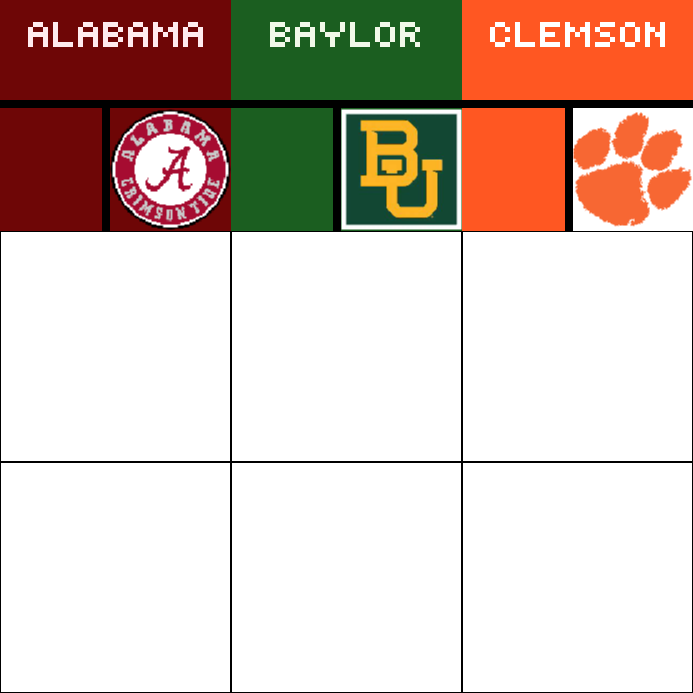
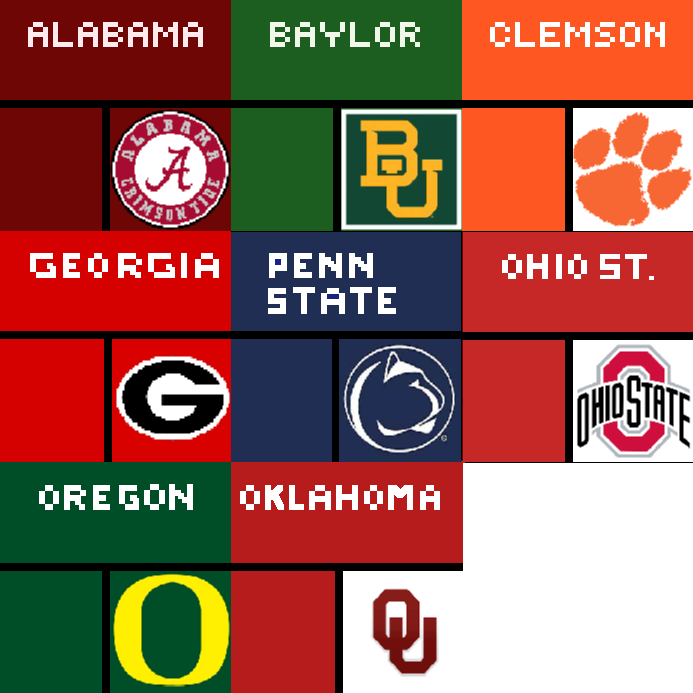
[Ethan] Team Jerseys Basic

diff --git a/src/graphics/Texture.java b/src/graphics/Texture.java
@@ -1,4 +1,5 @@
 package graphics;
+import entity.GameManager;
 import org.lwjgl.BufferUtils;
 import static org.lwjgl.opengl.GL13.*;
 import javax.imageio.ImageIO;
@@ -25,6 +26,99 @@ public class Texture {
             for (int i = 0; i < width; i++) {
                 for (int j = 0; j < height; j++) {
                     int pixel = pixels_raw[i*width+j];
+
+                    pixels.put((byte) ((pixel >> 16) & 0xFF)); // Red
+                    pixels.put((byte) ((pixel >> 8) & 0xFF)); // Green
+                    pixels.put((byte) (pixel & 0xFF)); // Blue
+                    pixels.put((byte) ((pixel >> 24) & 0xFF)); // Alpha
+                }
+            }
+
+            pixels.flip();
+
+            id = glGenTextures();
+
+            glBindTexture(GL_TEXTURE_2D,id);
+
+            glTexParameterf(GL_TEXTURE_2D, GL_TEXTURE_MIN_FILTER, GL_NEAREST); // Substitute GL_NEAREST WITH GL_LINEAR POSSIBlE
+            glTexParameterf(GL_TEXTURE_2D,GL_TEXTURE_MAG_FILTER,GL_NEAREST);
+
+            glTexImage2D(GL_TEXTURE_2D,0,GL_RGBA,width,height,0,GL_RGBA,GL_UNSIGNED_BYTE,pixels);
+
+        } catch(IOException e) {
+            e.printStackTrace();
+        }
+    }
+
+    public Texture(String filename, boolean offense) { // Constructor for player animations
+        BufferedImage bi;
+        try {
+            bi = ImageIO.read(new File("res/" +filename));
+            width = bi.getWidth();
+            height = bi.getHeight();
+
+            int[] pixels_raw = new int[width*height*4];
+            pixels_raw = bi.getRGB(0,0,width,height,null,0,width);
+
+            ByteBuffer pixels = BufferUtils.createByteBuffer(width*height*4);
+            for (int i = 0; i < width; i++) {
+                for (int j = 0; j < height; j++) {
+                    int pixel = pixels_raw[i*width+j];
+
+                    // Set Proper Jersey, Pant, Helmet Color
+                    int pantsOriginal = 0xFFffffff;
+                    int defenseJersey = -769226;
+                    int offenseJersey = 0xFF3f51b5;
+                    if (offense) {
+                        if ((GameManager.userHome && GameManager.userOffense) || (! GameManager.userHome && ! GameManager.userOffense)) {
+                            switch (GameManager.homeID) {
+                                case 0 : if (pixel == offenseJersey) {pixel = 0xFF9E1B32; } else if (pixel == pantsOriginal) { pixel = 0xFFffffff; } break;
+                                case 1 : if (pixel == offenseJersey) {pixel = 0xFF1b5e1f; } else if (pixel == pantsOriginal) { pixel = 0xFFffffff; } break;
+                                case 2 : if (pixel == offenseJersey) {pixel = 0xFFF56600; } else if (pixel == pantsOriginal) { pixel = 0xFFffffff; } break;
+                                case 3 : if (pixel == offenseJersey) {pixel = 0xFFBA0C2F; } else if (pixel == pantsOriginal) { pixel = 0xFFffffff; } break;
+                                case 4 : if (pixel == offenseJersey) {pixel = 0xFF3f51b5; } else if (pixel == pantsOriginal) { pixel = 0xFFffffff; } break;
+                                case 5 : if (pixel == offenseJersey) {pixel = 0xFFBB0000; } else if (pixel == pantsOriginal) { pixel = 0xFFffffff; } break;
+                                case 6 : if (pixel == offenseJersey) {pixel = 0xFF154733; } else if (pixel == pantsOriginal) { pixel = 0xFF154733; } break;
+                                case 7 : if (pixel == offenseJersey) {pixel = 0xFF841617; } else if (pixel == pantsOriginal) { pixel = 0xFFFDF9D8; } break;
+                            }
+                        } else {
+                            switch (GameManager.awayID) {
+                                case 0 : if (pixel == offenseJersey) { pixel = 0xFF828A8F; } else if (pixel == pantsOriginal) { pixel = 0xFFffebee; } break;
+                                case 1 :  if (pixel == offenseJersey) { pixel = 0xFFffffff; } else if (pixel == pantsOriginal) { pixel = 0xFF1b5e1f; } break;
+                                case 2 : if (pixel == offenseJersey) {pixel = 0xFFffffff; } else if (pixel == pantsOriginal) { pixel = 0xFFF56600; } break;
+                                case 3 : if (pixel == offenseJersey) {pixel = 0xFFffffff; } else if (pixel == pantsOriginal) { pixel = 0xFFBA0C2F; } break;
+                                case 4 : if (pixel == offenseJersey) {pixel = 0xFF3f51b5; } else if (pixel == pantsOriginal) { pixel = 0xFFffffff; } break;
+                                case 5 : if (pixel == offenseJersey) {pixel = 0xFF666666; } else if (pixel == pantsOriginal) { pixel = 0xFF666666; } break;
+                                case 6 : if (pixel == offenseJersey) {pixel = 0xFF1b5e1f; } else if (pixel == pantsOriginal) { pixel = 0xFF154733; } break;
+                                case 7 : if (pixel == offenseJersey) {pixel = 0xFFFDF9D8; } else if (pixel == pantsOriginal) { pixel = 0xFF841617; } break;
+                            }
+                        }
+                    } else {
+                        if ((GameManager.userHome && GameManager.userOffense) || (! GameManager.userHome && ! GameManager.userOffense)) {
+                            switch (GameManager.awayID) {
+                                case 0 : if (pixel == defenseJersey) { pixel = 0xFF828A8F; } else if (pixel == pantsOriginal) { pixel = 0xFFffebee; } break;
+                                case 1 : if (pixel == defenseJersey) { pixel = 0xFFffffff; } else if (pixel == pantsOriginal) { pixel = 0xFF1b5e1f; } break;
+                                case 2 : if (pixel == defenseJersey) {pixel = 0xFFffffff; } else if (pixel == pantsOriginal) { pixel = 0xFFF56600; } break;
+                                case 3 : if (pixel == defenseJersey) {pixel = 0xFFffffff; } else if (pixel == pantsOriginal) { pixel = 0xFFBA0C2F; } break;
+                                case 4 : if (pixel == defenseJersey) {pixel = 0xFF3f51b5; } else if (pixel == pantsOriginal) { pixel = 0xFFffffff; } break;
+                                case 5 : if (pixel == defenseJersey) {pixel = 0xFF666666; } else if (pixel == pantsOriginal) { pixel = 0xFF666666; } break;
+                                case 6 : if (pixel == defenseJersey) {pixel = 0xFF1b5e1f; } else if (pixel == pantsOriginal) { pixel = 0xFF154733; } break;
+                                case 7 : if (pixel == defenseJersey) {pixel = 0xFFFDF9D8; } else if (pixel == pantsOriginal) { pixel = 0xFF841617; } break;
+                            }
+                        } else {
+                            switch (GameManager.homeID) {
+                                case 0 : if (pixel == defenseJersey) {pixel = 0xFF9E1B32; } else if (pixel == pantsOriginal) { pixel = 0xFFffffff; } break;
+                                case 1 : if (pixel == defenseJersey) {pixel = 0xFF1b5e1f; } else if (pixel == pantsOriginal) { pixel = 0xFFffffff; } break;
+                                case 2 : if (pixel == defenseJersey) {pixel = 0xFFF56600; } else if (pixel == pantsOriginal) { pixel = 0xFFffffff; } break;
+                                case 3 : if (pixel == defenseJersey) {pixel = 0xFFBA0C2F; } else if (pixel == pantsOriginal) { pixel = 0xFFffffff; } break;
+                                case 4 : if (pixel == defenseJersey) {pixel = 0xFF3f51b5; } else if (pixel == pantsOriginal) { pixel = 0xFFffffff; } break;
+                                case 5 : if (pixel == defenseJersey) {pixel = 0xFFBB0000; } else if (pixel == pantsOriginal) { pixel = 0xFFffffff; } break;
+                                case 6 : if (pixel == defenseJersey) {pixel = 0xFF154733; } else if (pixel == pantsOriginal) { pixel = 0xFF154733; } break;
+                                case 7 : if (pixel == defenseJersey) {pixel = 0xFF841617; } else if (pixel == pantsOriginal) { pixel = 0xFFFDF9D8; } break;
+                            }
+                        }
+                    }
+
                     pixels.put((byte) ((pixel >> 16) & 0xFF)); // Red
                     pixels.put((byte) ((pixel >> 8) & 0xFF)); // Green
                     pixels.put((byte) (pixel & 0xFF)); // Blue

diff --git a/src/entity/OffensiveLineman.java b/src/entity/OffensiveLineman.java
@@ -28,14 +28,14 @@ public class OffensiveLineman extends Entity {
 
     public OffensiveLineman (Transform transform) {
         super(ANIM_SIZE,transform);
-        setAnimation(ANIM_IDLE, new Animation(1,1,"offensivelineidle"));
-        setAnimation(ANIM_MOVE, new Animation(3,12, "offensivelinemove"));
-        setAnimation(ANIM_BLOCK, new Animation(1,1, "offensivelineblock"));
-        setAnimation(ANIM_FALL, new Animation(1,1,"offensivefall"));
-        setAnimation(ANIM_BLOCK_MOVING, new Animation(4, 16, "offensivelineblockmoving"));
-        setAnimation(ANIM_PRESNAP, new Animation(1,1, "presnap/offensiveline"));
-        setAnimation(ANIM_CENTER, new Animation(2, 4, "presnap/center"));
-        setAnimation(ANIM_PLACE_HOLDER, new Animation(1,1, "placeholder"));
+        setAnimation(ANIM_IDLE, new Animation(1,1,"offensivelineidle",true));
+        setAnimation(ANIM_MOVE, new Animation(3,12, "offensivelinemove",true));
+        setAnimation(ANIM_BLOCK, new Animation(1,1, "offensivelineblock",true));
+        setAnimation(ANIM_FALL, new Animation(1,1,"offensivefall",true));
+        setAnimation(ANIM_BLOCK_MOVING, new Animation(4, 16, "offensivelineblockmoving",true));
+        setAnimation(ANIM_PRESNAP, new Animation(1,1, "presnap/offensiveline",true));
+        setAnimation(ANIM_CENTER, new Animation(2, 4, "presnap/center",true));
+        setAnimation(ANIM_PLACE_HOLDER, new Animation(1,1, "placeholder",true));
         speed = 3f;
         strength = 10f;
     }

diff --git a/src/entity/Quarterback.java b/src/entity/Quarterback.java
@@ -32,13 +32,13 @@ public class Quarterback extends Entity {
 
     public Quarterback(Transform transform) {
         super(ANIM_SIZE,transform);
-        setAnimation(ANIM_IDLE, new Animation(1,1,"qbidle"));
-        setAnimation(ANIM_WALK, new Animation(4,16,"qbrun"));
-        setAnimation(ANIM_THROW, new Animation(2,4,"qbthrow"));
-        setAnimation(ANIM_FALL, new Animation(1,1,"offensivefall"));
-        setAnimation(ANIM_HANDOFF, new Animation(1,1,"qbhandoff"));
-        setAnimation(ANIM_PRESNAP, new Animation(1,1, "presnap/quarterback"));
-        setAnimation(ANIM_RUN, new Animation(4, 16, "widereceiverrouterun"));
+        setAnimation(ANIM_IDLE, new Animation(1,1,"qbidle",true));
+        setAnimation(ANIM_WALK, new Animation(4,16,"qbrun",true));
+        setAnimation(ANIM_THROW, new Animation(2,4,"qbthrow",true));
+        setAnimation(ANIM_FALL, new Animation(1,1,"offensivefall",true));
+        setAnimation(ANIM_HANDOFF, new Animation(1,1,"qbhandoff",true));
+        setAnimation(ANIM_PRESNAP, new Animation(1,1, "presnap/quarterback",true));
+        setAnimation(ANIM_RUN, new Animation(4, 16, "widereceiverrouterun",true));
         speed = 7f;
         strength = 10f;
         throw_accuracy = 10f;
@@ -245,7 +245,6 @@ public class Quarterback extends Entity {
                 move(movement);
             }
             else if (! playStart) {
-                System.out.println("RUNNING");
                 snap(window,world);
             }
 

diff --git a/src/entity/WideReceiver.java b/src/entity/WideReceiver.java
@@ -24,13 +24,13 @@ public class WideReceiver extends Entity {
 
     public WideReceiver(Transform transform) {
         super(ANIM_SIZE,transform);
-        setAnimation(ANIM_IDLE, new Animation(1,1,"widereceiveridle"));
-        setAnimation(ANIM_RUN, new Animation(4,16,"widereceiverrouterun"));
-        setAnimation(ANIM_CATCH, new Animation(1,1,"widereceiverincatch"));
-        setAnimation(ANIM_FALL, new Animation(1,1,"offensivefall"));
-        setAnimation(ANIM_RUN_BALL, new Animation(4,16,"widereceiverrunwithball"));
-        setAnimation(ANIM_IDLE_BALL, new Animation(1,1,"widereceiveridlewithball"));
-        setAnimation(ANIM_PRESNAP, new Animation(1,1, "presnap/receiver"));
+        setAnimation(ANIM_IDLE, new Animation(1,1,"widereceiveridle",true));
+        setAnimation(ANIM_RUN, new Animation(4,16,"widereceiverrouterun",true));
+        setAnimation(ANIM_CATCH, new Animation(1,1,"widereceiverincatch",true));
+        setAnimation(ANIM_FALL, new Animation(1,1,"offensivefall",true));
+        setAnimation(ANIM_RUN_BALL, new Animation(4,16,"widereceiverrunwithball",true));
+        setAnimation(ANIM_IDLE_BALL, new Animation(1,1,"widereceiveridlewithball",true));
+        setAnimation(ANIM_PRESNAP, new Animation(1,1, "presnap/receiver",true));
         speed = 9f;
         catching = 10f;
         strength = 10f;

diff --git a/src/entity/RunningBack.java b/src/entity/RunningBack.java
@@ -24,11 +24,11 @@ public class RunningBack extends Entity {
 
     public RunningBack(Transform transform) {
         super(ANIM_SIZE, transform);
-        setAnimation(ANIM_IDLE, new Animation(1,1,"runningbackidle"));
-        setAnimation(ANIM_RUN_WITHOUT_BALL, new Animation(3,12, "runningbackmovewithoutball"));
-        setAnimation(ANIM_RUN_WITH_BALL, new Animation(3,12,"runningbackmovewithball"));
-        setAnimation(ANIM_IDLE_WITH_BALL, new Animation(1,1,"runningbackidlewithball"));
-        setAnimation(ANIM_FALL, new Animation(1,1, "offensivefall"));
+        setAnimation(ANIM_IDLE, new Animation(1,1,"runningbackidle",true));
+        setAnimation(ANIM_RUN_WITHOUT_BALL, new Animation(3,12, "runningbackmovewithoutball",true));
+        setAnimation(ANIM_RUN_WITH_BALL, new Animation(3,12,"runningbackmovewithball",true));
+        setAnimation(ANIM_IDLE_WITH_BALL, new Animation(1,1,"runningbackidlewithball",true));
+        setAnimation(ANIM_FALL, new Animation(1,1, "offensivefall",true));
         setRoute(1);
         strength = 8f;
         speed = 10f;

diff --git a/src/entity/DefensiveLineman.java b/src/entity/DefensiveLineman.java
@@ -20,11 +20,11 @@ public class DefensiveLineman extends Entity {
     public DefensiveLineman(Transform transform) {
         super(ANIM_SIZE, transform);
         uniqueEvents = false;
-        setAnimation(ANIM_IDLE, new Animation(1, 1, "defensivelineidle"));
-        setAnimation(ANIM_MOVE, new Animation(4,16,"defensivemovement"));
-        setAnimation(ANIM_UNKNOWN, new Animation(0,0, "defensivelinemovement"));
-        setAnimation(ANIM_FALL, new Animation(1,1, "defensivefall"));
-        setAnimation(ANIM_PRESNAP, new Animation(1,1, "presnap/defensiveline"));
+        setAnimation(ANIM_IDLE, new Animation(1, 1, "defensivelineidle", false));
+        setAnimation(ANIM_MOVE, new Animation(4,16,"defensivemovement", false));
+        setAnimation(ANIM_UNKNOWN, new Animation(0,0, "defensivelinemovement", false));
+        setAnimation(ANIM_FALL, new Animation(1,1, "defensivefall", false));
+        setAnimation(ANIM_PRESNAP, new Animation(1,1, "presnap/defensiveline", false));
         speed = 7f; // 8
         strength = 10f; // 10
 

diff --git a/src/entity/DefensiveBack.java b/src/entity/DefensiveBack.java
@@ -36,11 +36,11 @@ public class DefensiveBack extends Entity {
     public DefensiveBack(Transform transform) {
         super(ANIM_SIZE, transform);
         uniqueEvents = false;
-        setAnimation(ANIM_IDLE, new Animation(1, 1, "defensivelineidle"));
-        setAnimation(ANIM_MOVE, new Animation(4,16,"defensivemovement"));
-        setAnimation(ANIM_UNKNOWN, new Animation(0,0, "defensivelinemovement"));
-        setAnimation(ANIM_FALL, new Animation(1,1, "defensivefall"));
-        setAnimation(ANIM_PRESNAP, new Animation(1,1, "presnap/defensiveback"));
+        setAnimation(ANIM_IDLE, new Animation(1, 1, "defensivelineidle", false));
+        setAnimation(ANIM_MOVE, new Animation(4,16,"defensivemovement", false));
+        setAnimation(ANIM_UNKNOWN, new Animation(0,0, "defensivelinemovement", false));
+        setAnimation(ANIM_FALL, new Animation(1,1, "defensivefall", false));
+        setAnimation(ANIM_PRESNAP, new Animation(1,1, "presnap/defensiveback", false));
 
         speed = 10f;
         manCoverage = 8f;

diff --git a/src/entity/Kicker.java b/src/entity/Kicker.java
@@ -25,9 +25,9 @@ public class Kicker extends Entity {
     public Kicker(Transform transform) {
         super(ANIM_SIZE, transform);
 
-        setAnimation(ANIM_IDLE, new Animation(1,1,"widereceiveridle"));
-        setAnimation(ANIM_MOVE, new Animation(4,16,"widereceiverrouterun"));
-        setAnimation(ANIM_KICK, new Animation(2,2, "kick"));
+        setAnimation(ANIM_IDLE, new Animation(1,1,"widereceiveridle",true));
+        setAnimation(ANIM_MOVE, new Animation(4,16,"widereceiverrouterun",true));
+        setAnimation(ANIM_KICK, new Animation(2,2, "kick",true));
     }
 
     public Vector2f runToBall(World world, float delta) {

diff --git a/src/graphics/Animation.java b/src/graphics/Animation.java
@@ -24,6 +24,19 @@ public class Animation {
         }
     }
 
+    public Animation(int amount, int fps, String filename, boolean offense) { // For Player jerseys & such
+        this.pointer = 0;
+        this.elapsedTime = 0;
+        this.currentTime = 0;
+        this.lastTime = Timer.getTime();
+        this.fps = 1.0/(double)fps;
+
+        this.frames = new Texture[amount];
+        for (int count = 0; count < amount; count++) {
+            this.frames[count] = new Texture("animation/" + filename + "/_" + count + ".png", offense);
+        }
+    }
+
     public void bind() { bind(0); }
 
     public void bind(int sampler) {

diff --git a/src/entity/GameManager.java b/src/entity/GameManager.java
@@ -21,8 +21,8 @@ public class GameManager {
     public static boolean selectedPlay = false;
     public static boolean hasEntities = false;
     public static double timePlayEnd = 0;
-    public static int homeID = 0;
-    public static int awayID = 1;
+    public static int homeID = 1;
+    public static int awayID = 0;
     public static float timeLeft = 300; // seconds
     public static float playClock = 20; // seconds
     public static int quarter = 1;
